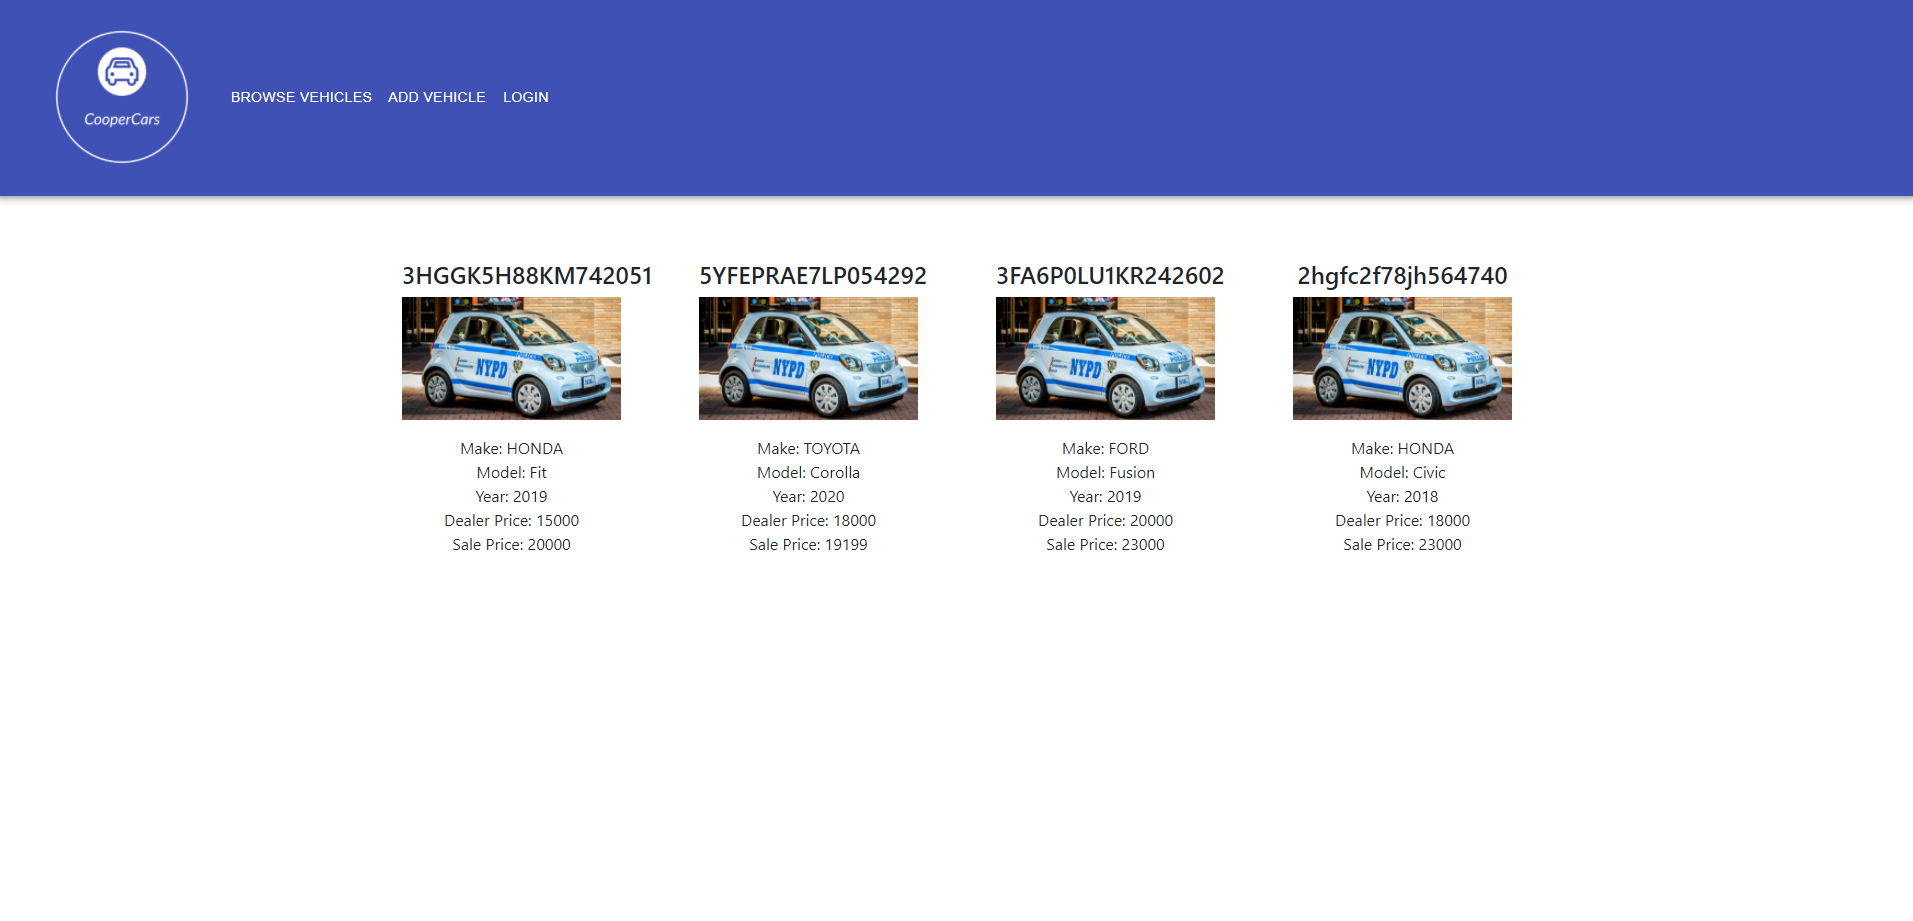
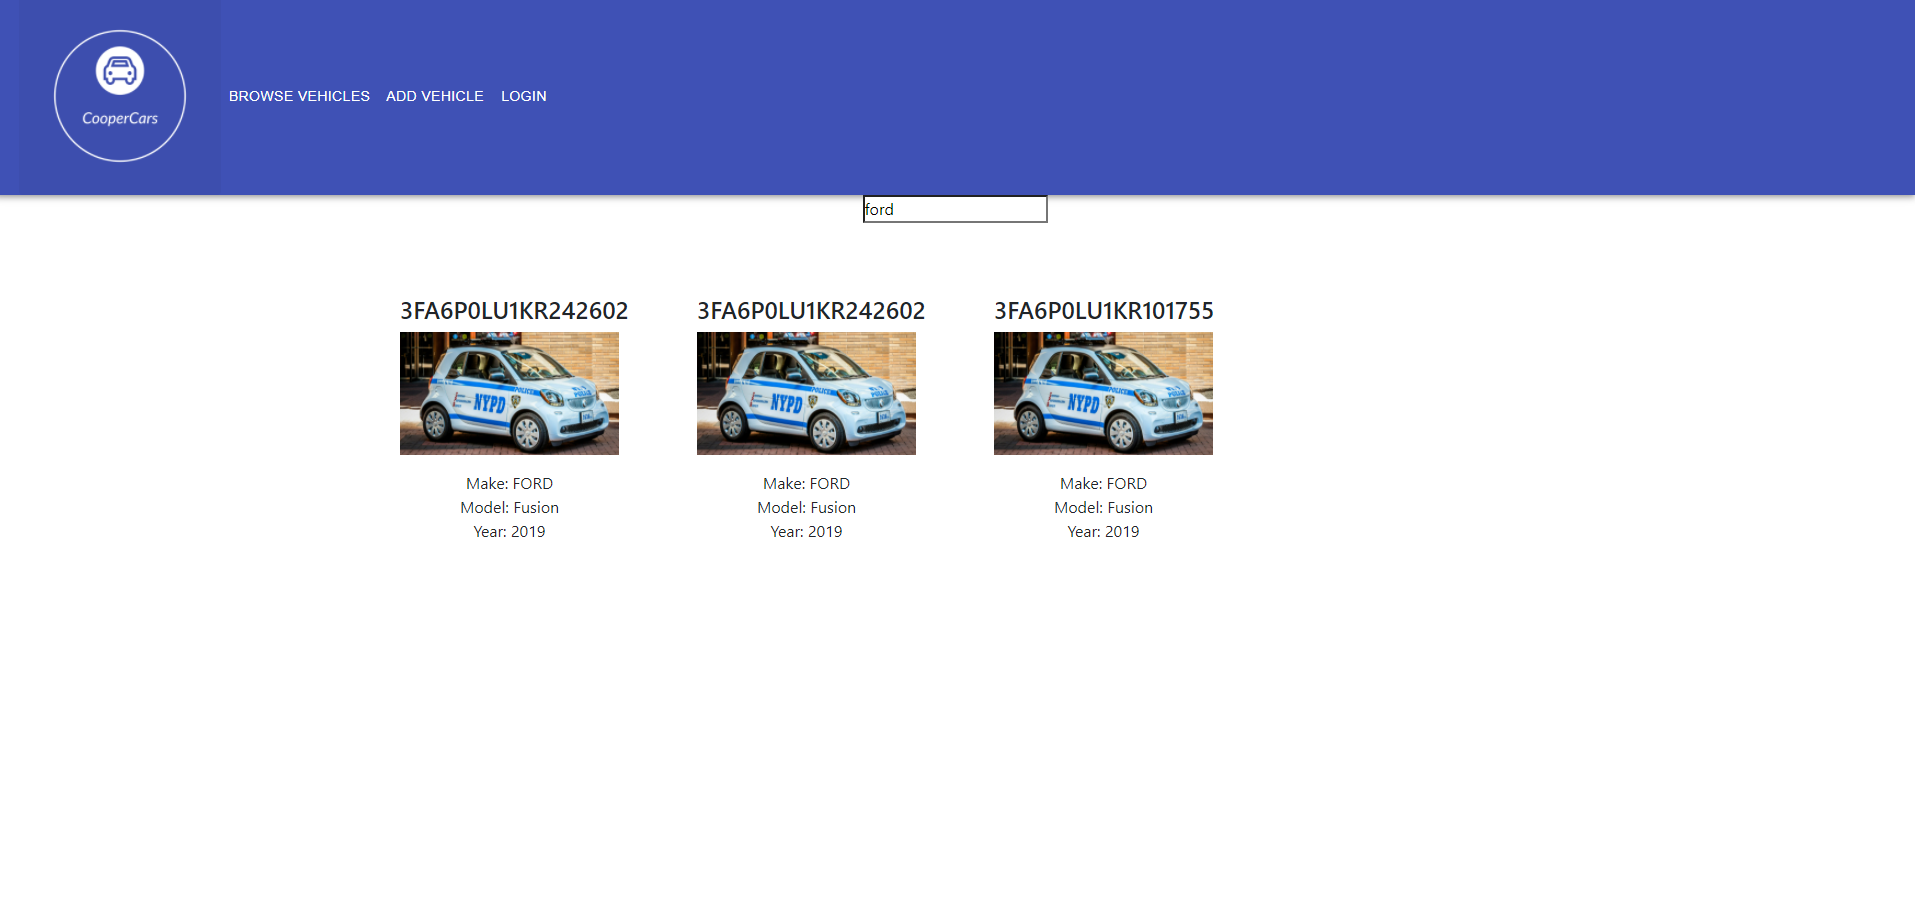
merged all changes

diff --git a/coopercars-app/src/components/BrowseVehicle.js b/coopercars-app/src/components/BrowseVehicle.js
@@ -23,7 +23,14 @@ function BrowseVehicle() {
     const [error, setError] = useState(null);
     const [isLoaded, setIsLoaded] = useState(false);
     const [items, setItems] = useState([]);
-
+    const [q, setQ] = useState("");
+    //     set search parameters
+    //     we only what to search countries by capital and name
+    //     this list can be longer if you want
+    //     you can search countries even by their population
+    // just add it to this array
+    const [searchParam] = useState(["make", "model"]);
+    const [filterParam, setFilterParam] = useState(["All"]);
     useEffect(() => {
         fetch("http://localhost:8080/api/vehicles")
             .then((res) => res.json())
@@ -42,6 +49,35 @@ function BrowseVehicle() {
             );
     }, []);
 
+    function search(items) {
+        return items.filter((item) => {
+            /*
+//             in here we check if our region is equal to our c state
+// if it's equal to then only return the items that match
+// if not return All the countries
+            */
+            if (item.make == filterParam) {
+                return searchParam.some((newItem) => {
+                    return (
+                        item[newItem]
+                            .toString()
+                            .toLowerCase()
+                            .indexOf(q.toLowerCase()) > -1
+                    );
+                });
+            } else if (filterParam == "All") {
+                return searchParam.some((newItem) => {
+                    return (
+                        item[newItem]
+                            .toString()
+                            .toLowerCase()
+                            .indexOf(q.toLowerCase()) > -1
+                    );
+                });
+            }
+        });
+    }
+
     if (error) {
         return <>{error.message}</>;
     } else if (!isLoaded) {
@@ -49,44 +85,51 @@ function BrowseVehicle() {
     } else {
         return (
             /* here we map over the element and display each item as a card  */
-            <div className = "browse">
-                <NavBar />
+            <div className="browse"><NavBar />
                 <div className="wrapper">
+                    <div>
+                        <label htmlFor="search-form">
+                            <input
+                                type="search"
+                                name="search-form"
+                                id="search-form"
+                                className="search-input"
+                                placeholder="Search for..."
+                                value={q}
+                                /*
+                                // set the value of our useState q
+                                //  anytime the user types in the search box
+                                */
+                                onChange={(e) => setQ(e.target.value)}
+                            />
+                            <span className="sr-only">Search for vehicle here</span>
+                        </label>
+                    </div>
                     <ul className="card-grid">
-                        {items.map((item) => (
+                        {search(items).map((item) => (
                             <li>
-                                <article className="vehicle" key={item.vin}>
-
-                                    <div className="card-content">
-                                        <h4 className="card-name">{item.vin}</h4>
-                                        <div className="car-image">
-                                            <img src={item.imgURL} alt={item.vin}/>
-                                        </div>
-                                        <ol className="card-list">
-                                            <li>
-                                                Make:{" "}
-                                                <span>{item.make}</span>
-                                            </li>
-                                            <li>
-                                                Model: <span>{item.model}</span>
-                                            </li>
-                                            <li>
-                                                Year: <span>{item.year}</span>
-                                            </li>
-                                            <li>
-                                                Dealer Price: $<span>{item.dealerPrice}</span>
-                                            </li>
-                                            <li>
-                                                Sale Price: $<span>{item.salePrice}</span>
-                                            </li>
-                                        </ol>
+                                <div className="card-content">
+                                    <h4 className="card-name">{item.vin}</h4>
+                                    <div className="car-image">
+                                        <img src={item.imgURL} alt={item.vin}/>
                                     </div>
-                                </article>
+                                    <ol className="card-list">
+                                        <li>
+                                            Make:{" "}
+                                            <span>{item.make}</span>
+                                        </li>
+                                        <li>
+                                            Model: <span>{item.model}</span>
+                                        </li>
+                                        <li>
+                                            Year: <span>{item.year}</span>
+                                        </li>
+                                    </ol>
+                                </div>
                             </li>
                         ))}
                     </ul>
-                </div>
-            </div>
+                </div></div>
 
         );
     }

diff --git a/coopercars-service/src/main/java/edu/cooper/ece366/project/coopercars/server/ControllerApi.java b/coopercars-service/src/main/java/edu/cooper/ece366/project/coopercars/server/ControllerApi.java
@@ -36,7 +36,7 @@ public class ControllerApi {
     public String getVehiclesInfo() throws JsonProcessingException {
         try {
             VehiclesAPI vehicles = new VehiclesAPI();
-            LOGGER.debug(vehicles.getTheVehicles().toString());
+            //LOGGER.debug(vehicles.getTheVehicles().toString());
             //ObjectMapper mapper = new ObjectMapper();
             //List<Vehicle> myVehicles = mapper.readValue(jsonInput, new TypeReference<List<Vehicle>>(){});
 

diff --git a/README.md b/README.md
@@ -1,15 +1,16 @@
-# CooperCars: US-11
+# CooperCars: US-11 - merged all of our changes
 ## Current Functionality:
 #### 'Add Vehicles' page: User enters a VIN, dealer/sale price. Vehicle details are added to CSV database and info presented.
 ![image1](us-8.png)
-#### 'Browse Vehicles' page: Reads all the vehicles in the CSV database.
+#### 'Browse Vehicles' page: Reads all the vehicles in the CSV database. Filter by Make currently working.
 ![image1](us-11.png)
 ## Backend:
 #### http://localhost:8080/api/vehicle/{vin}/{dealerPrice}/{salePrice} returns info about ONE vehicle, passes to back end price info from front end.
 #### http://localhost:8080/api/vehicles returns info about ALL vehicles in database
 ## Next steps:
-#### Social login. Seperate platforms for dealer/consumer.
-#### Add sorting/filtering by vehicle specification. Reference: https://www.freecodecamp.org/news/search-and-filter-component-in-reactjs/
-#### CSV database to SQL :-)
 #### DONE: When adding a vehicle, prompt for sale price and dealer price
+#### WIP: Social login. Seperate platforms for dealer/consumer.
+#### WIP: Add sorting/filtering by vehicle specification. Reference: https://www.freecodecamp.org/news/search-and-filter-component-in-reactjs/
+#### NEXT SPRINT: CSV database to SQL :-)
+#### NEXT SPRINT: delete vehicle from database
 
